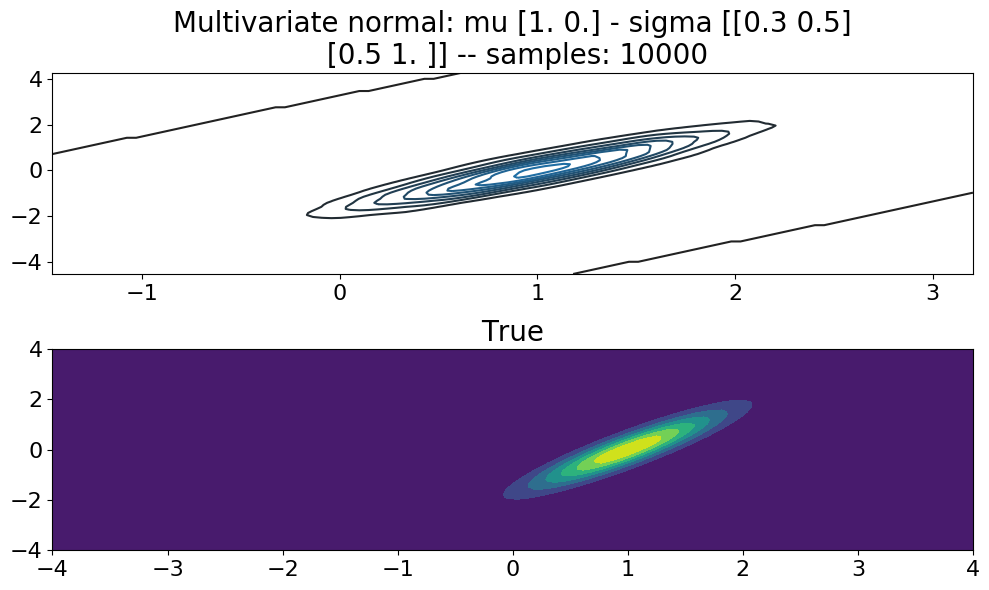
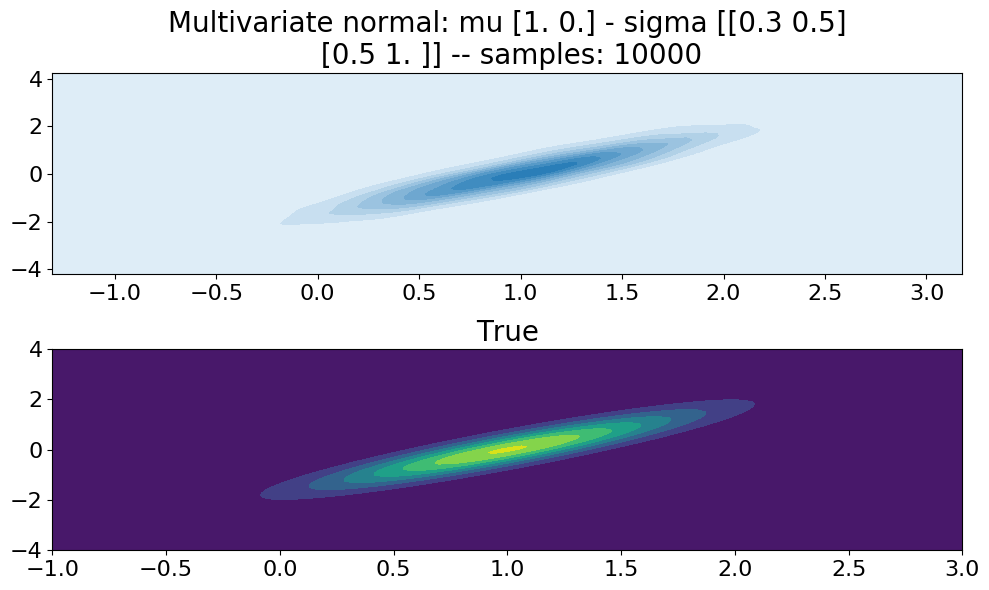
fix bug in multi normal and add numerical integration

diff --git a/test/integration.py b/test/integration.py
@@ -1,0 +1,57 @@
+import unittest
+
+from probpy.integration import uniform_importance_sampling
+from probpy.distributions import normal, multivariate_normal
+import numpy as np
+import matplotlib.pyplot as plt
+import seaborn as sb
+
+
+class TestIntegration(unittest.TestCase):
+    def test_uniform_importance_sampling(self):
+        f = lambda x: -np.square(x) + 3
+
+        plt.figure(figsize=(10, 6))
+        for sz in np.logspace(3, 5, 3):
+            sz = int(sz)
+            results = []
+            for i in range(100):
+                results.append(uniform_importance_sampling(size=sz,
+                                                           function=f,
+                                                           domain=(-2, 2),
+                                                           proposal=normal.freeze(mu=0, sigma=2)))
+
+            sb.distplot(results, label=f"size {sz}")
+        plt.legend(fontsize=16)
+        plt.xticks(fontsize=16)
+        plt.yticks(fontsize=16)
+        plt.tight_layout()
+        plt.savefig("../images/uniform_importance_sampling.png", bbox_inches="tight")
+        plt.show()
+
+    def test_uniform_importance_multivariate(self):
+        f = lambda x: -np.square(x[:, 0]) + np.square(x[:, 1])
+
+        lower_bound = np.array([0, 0])
+        upper_bound = np.array([4, 2])
+        plt.figure(figsize=(10, 6))
+        for sz in np.logspace(3, 5, 3):
+            sz = int(sz)
+            results = []
+            for i in range(100):
+                results.append(uniform_importance_sampling(size=sz,
+                                                           function=f,
+                                                           domain=(lower_bound, upper_bound),
+                                                           proposal=multivariate_normal.freeze(mu=np.zeros(2), sigma=np.eye(2) * 2)))
+
+            sb.distplot(results, label=f"size {sz}")
+        plt.legend(fontsize=16)
+        plt.xticks(fontsize=16)
+        plt.yticks(fontsize=16)
+        plt.tight_layout()
+        plt.savefig("../images/uniform_importance_sampling_multivariate.png", bbox_inches="tight")
+        plt.show()
+
+
+if __name__ == '__main__':
+    unittest.main()

diff --git a/test/distributions.py b/test/distributions.py
@@ -119,12 +119,12 @@ class TestDistributions(unittest.TestCase):
         plt.figure(figsize=(10, 6))
         plt.subplot(2, 1, 1)
         plt.title(f"Multivariate normal: mu {mu} - sigma {sigma} -- samples: {samples}", fontsize=20)
-        sb.kdeplot(n[:, 0], n[:, 1])
+        sb.kdeplot(n[:, 0], n[:, 1], shade=True)
         plt.xticks(fontsize=16)
         plt.yticks(fontsize=16)
 
         points = 100
-        x = np.linspace(-4, 4, points)
+        x = np.linspace(-1, 3, points)
         y = np.linspace(-4, 4, points)
 
         X, Y = np.meshgrid(x, y)
@@ -181,13 +181,13 @@ class TestDistributions(unittest.TestCase):
         plt.figure(figsize=(10, 6))
         plt.subplot(2, 1, 1)
         plt.title(f"Multivariate uniform: a {a} - b {b} -- samples: {samples}", fontsize=20)
-        sb.kdeplot(n[:, 0], n[:, 1])
+        sb.kdeplot(n[:, 0], n[:, 1], shade=True)
         plt.xticks(fontsize=16)
         plt.yticks(fontsize=16)
 
         points = 1000
-        x = np.linspace(-4, 4, points)
-        y = np.linspace(-4, 4, points)
+        x = np.linspace(-2.5, 2.5, points)
+        y = np.linspace(-1.5, 3.5, points)
 
         X, Y = np.meshgrid(x, y)
 

diff --git a/probpy/integration.py b/probpy/integration.py
@@ -1,0 +1,19 @@
+from typing import Callable, Tuple
+from .core import FrozenDistribution
+import numpy as np
+
+
+def uniform_importance_sampling(size: int,
+                                function: Callable[[np.ndarray], np.ndarray],
+                                domain: Tuple[np.ndarray, np.ndarray],
+                                proposal: FrozenDistribution):
+    lower_bounds, upper_bounds = domain
+
+    samples = proposal.sample(shape=size)
+
+    accepted = (lower_bounds < samples) & (samples < upper_bounds)
+
+    if accepted.ndim == 2:
+        accepted = accepted.all(axis=1)
+
+    return (function(samples[accepted]) / proposal.p(samples[accepted])).sum(axis=0) / size

diff --git a/probpy/distributions/normal.py b/probpy/distributions/normal.py
@@ -15,9 +15,9 @@ class MultiVariateNormal(Distribution):
 
     @staticmethod
     def p(mu: np.ndarray, sigma: np.ndarray, X: np.ndarray) -> np.ndarray:
-        normalizing_constant = np.float_power(np.sqrt(2 * np.pi * np.linalg.det(sigma)), -mu.ndim)
+        normalizing_constant = np.float_power(2 * np.pi, -mu.size / 2) * np.float_power(np.linalg.det(sigma), -0.5)
         return np.array(
-            [np.exp(-1 / 2 * (x - mu).T @ np.linalg.inv(sigma) @ (x - mu)) / normalizing_constant for x in X])
+            [np.exp((-1 / 2) * (x - mu).T @ np.linalg.inv(sigma) @ (x - mu)) * normalizing_constant for x in X])
 
 
 class Normal(Distribution):

diff --git a/README.md b/README.md
@@ -11,6 +11,8 @@ Documentation
 - [Core](#core)
   - [MCMC](#MCMC)
     - [Metropolis](#metropolis)
+  - [Integration](#integration)
+    - [Uniform Importance Sampling](#uniform-importance-sampling)
   - [Distributions](#distributions)
     - [Normal](#normal)
     - [Multivariate Normal](#multivariate-normal)
@@ -52,6 +54,53 @@ samples = metropolis(size=10000, pdf=pdf, proposal=normal.freeze(mu=0, sigma=10)
 <p align="center">
   <img width=600px heigth=300px src="images/metropolis.png" />
 </p>
+
+### Integration
+
+Statistical integration algorithms 
+
+#### Uniform Importance Sampling
+
+```python3
+from probpy.distributions import normal
+from probpy.integration import uniform_importance_sampling
+
+f = lambda x: -np.square(x) + 3
+
+result = uniform_importance_sampling(size=10000, 
+                                     function=f, 
+                                     domain=(-2, 2), 
+                                     proposal=normal.freeze(mu=0, sigma=2))
+
+```
+> Wolfram alpha gives 6.66666..
+
+<p align="center">
+  <img width=600px heigth=300px src="images/uniform_importance_sampling.png" />
+</p>
+
+Multivariate example
+
+```python3
+from probpy.distributions import normal
+from probpy.integration import uniform_importance_sampling
+
+f = lambda x: -np.square(x[:, 0]) + np.square(x[:, 1])
+
+lower_bound = np.array([0, 0])
+upper_bound = np.array([4, 2])
+
+results = uniform_importance_sampling(size=100000,
+                                      function=f,
+                                      domain=(lower_bound, upper_bound),
+                                      proposal=multivariate_normal.freeze(mu=np.zeros(2), sigma=np.eye(2) * 2)))
+```
+> Wolfram alpha gives -32
+
+<p align="center">
+  <img width=600px heigth=300px src="images/uniform_importance_sampling_multivariate.png" />
+</p>
+
 
 ### Distributions
 
